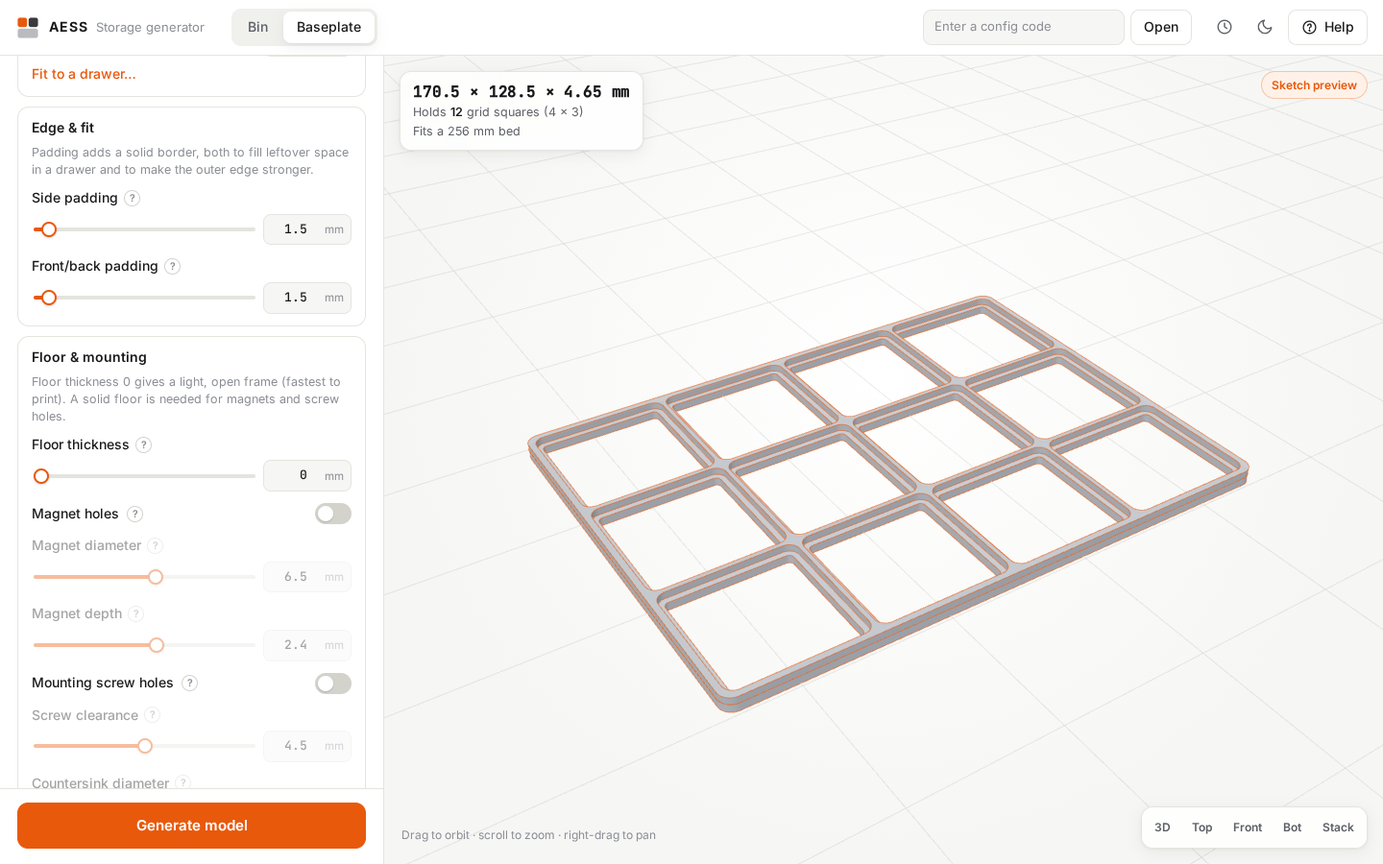
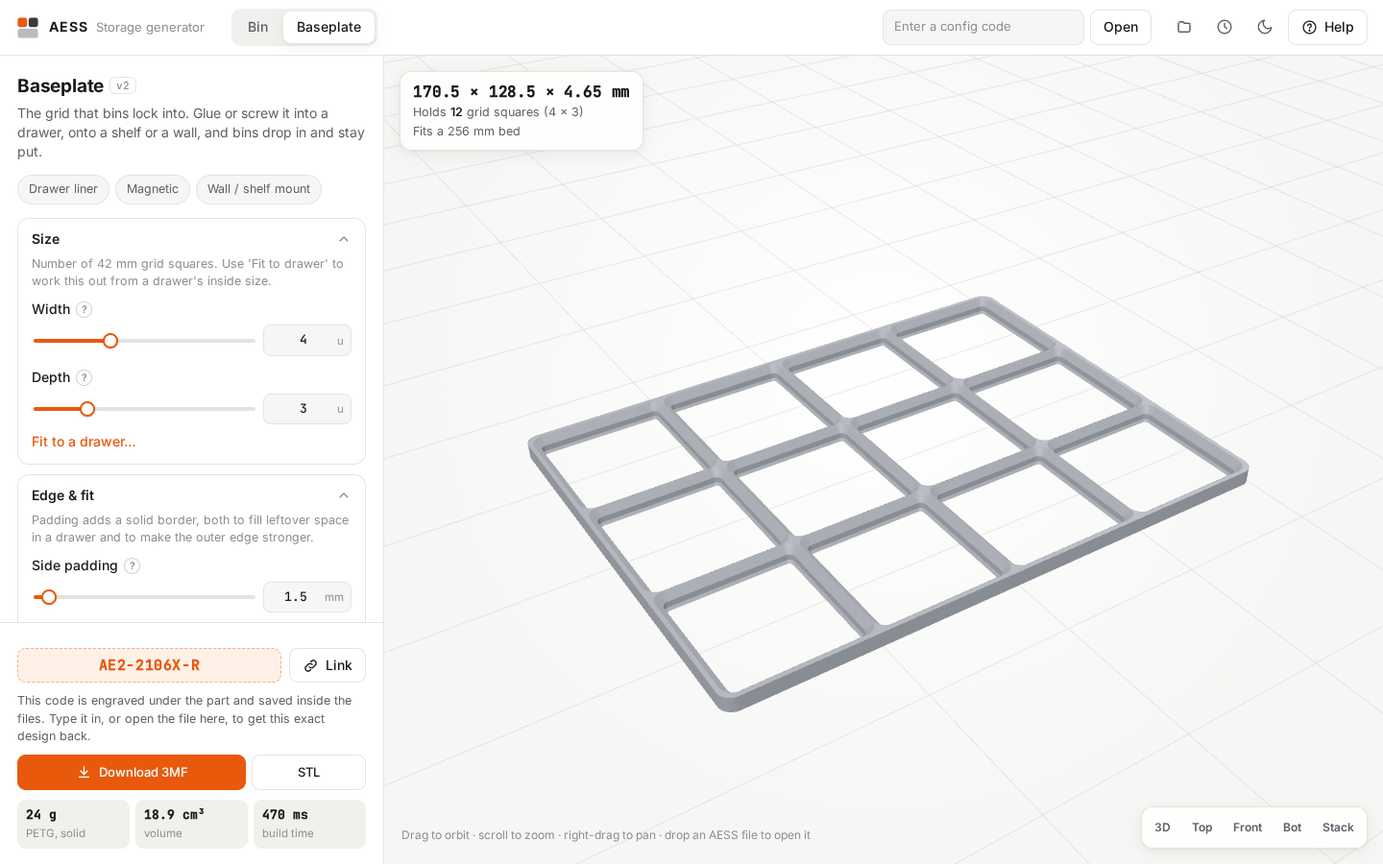
ci: deploy the site to GitHub Pages after tests pass
Run the lock tests and the Node model/code/file tests, build _site and
publish it with actions/deploy-pages on every push to main. Update the
README, CONTRIBUTING and CLAUDE.md for the static architecture.

diff --git a/README.md b/README.md
@@ -9,7 +9,7 @@ Gridfinity-compatible bins and baseplates, plus a web generator that turns your 
 
 [![CI](https://github.com/urnavrt-bit/aess/actions/workflows/ci.yml/badge.svg)](https://github.com/urnavrt-bit/aess/actions/workflows/ci.yml) [![License: MIT](https://img.shields.io/badge/license-MIT-blue.svg)](LICENSE)
 
-<img src="docs/images/generator-bin.png" alt="The AESS generator showing a 2×1 bin with three compartments" width="900">
+<img src="docs/images/generator-bin.png" alt="The AESS generator showing a 3×2 bin built live in the browser" width="900">
 
 </div>
 
@@ -17,11 +17,12 @@ Gridfinity-compatible bins and baseplates, plus a web generator that turns your 
 
 ## Why AESS
 
-[Gridfinity](https://www.youtube.com/watch?v=ra_9zU-mnl8) made modular storage easy. AESS keeps the same interface, so everything interoperates, and focuses on three things:
+[Gridfinity](https://www.youtube.com/watch?v=ra_9zU-mnl8) made modular storage easy. AESS keeps the same interface, so everything interoperates, and focuses on four things:
 
 - **Toughness by default.** 1.6 mm walls (up to 2.5 mm), a 2.25 mm floor, a rounded inside corner where walls meet the floor, and a stacking lip with a flat top instead of a knife edge that chips. Every overhang is 45° or less, so nothing needs supports.
-- **Fully parametric.** Size, walls, floor, lip, dividers, label shelf, scoop, magnets and screws are all settings, checked against each other so you can't generate something that won't print or fit.
-- **Designs you can get back.** Every generated part gets a config code such as `AE-WCFJS-5ZCVN`, **engraved on its underside**. Type the code into the generator, even years and many releases later, and you get exactly the same part.
+- **Fully parametric, instantly.** Size, walls, floor, lip, dividers, label shelf, scoop, magnets and screws are all settings, checked against each other. The exact model is built **in your browser** as you drag a slider (usually in under half a second), with no account and no server.
+- **Designs you can get back.** Every design has a config code such as `AE2-11073-8`. The code itself holds the model, its version and your settings, it is **engraved on the part's underside**, and typing it in, even years and many releases later, gives you exactly the same part.
+- **Files that remember.** Every 3MF carries its full configuration (and a thumbnail for your slicer); every STL carries the code. Drop a file back onto the generator to edit the design.
 
 ## What's in the system
 
@@ -36,9 +37,9 @@ Bins stack on each other the same way they sit in a baseplate, and work with any
 ## Using the generator
 
 1. Pick **Bin** or **Baseplate**, or start from a preset (*Small parts*, *Heavy tools*, *Kitchen drawer*, *Desk tray*, *Bathroom*…).
-2. Adjust settings; the 3D view shows a live sketch with the outside size, inside size and compartment size.
-3. **Generate**: the exact model is built on the server (about 5–40 s) and replaces the sketch.
-4. Download **3MF** (slicers), **STL**, or **STEP** (CAD). Keep the code, or copy the share link (`/c/<code>`).
+2. Adjust settings. The 3D view is the exact model, rebuilt as you go, with the outside, inside and compartment sizes. Every changed setting can be reset on its own.
+3. Download **3MF** (slicers; includes the design data and a thumbnail) or **STL**.
+4. Keep the code or the file, or copy the share link (`aess.billowapp.dev/?c=<code>`). Open a code with the box at the top, or drop a file anywhere on the page.
 
 <details>
 <summary>Phone layout</summary>
@@ -52,70 +53,48 @@ PETG or ASA for toughness (PLA is fine indoors) · 0.2 mm layers · 3–4 perime
 ## How it works
 
 ```
-browser ──► server/app.py ──► solidcraft-cli run <script> --in models/<model>/v<N>/model.sc
-  UI + API     (stdlib Python)      parametric B-rep model ──► STL · 3MF · STEP
-                │
-                └── data/codes.sqlite   code → model, version, every parameter value
+ design & verify                         publish                           use (all in the browser)
+ SolidCraft reference model ──┐   models/<model>/v<N>/model.js ──► Manifold (WebAssembly) ──► 3MF · STL
+   (exact B-rep, by hand)     └──► tests compare volume & size       + frozen kit, font, code format
 ```
 
-- **Models** are parametric [SolidCraft](https://solidcraft.io) designs in `models/<model>/v<N>/`. Each version has a `manifest.json` describing every parameter (range, step, default, help text), how it maps to the model (parameter changes, feature suppression), cross-checks between parameters, presets, and which text parameters receive the engraved code.
-- **The server** (`server/app.py`, Python standard library only) serves the single-page UI and a small JSON API, validates every value against the manifest, stores configs under their code, and builds them with `solidcraft-cli` in a bounded worker queue. Builds are cached by code.
-- **Config codes** are a hash of the canonical config (model + version + every parameter). The same design always gets the same code. A code is pinned to its model version, so later versions never change it; the UI offers to *open it in the latest version* as an explicit choice.
-- **Published model versions are immutable.** `models/LOCK.json` records their checksums and the test suite fails if one changes. A change of any size goes into a new version.
-
-### API
-
-| Method & path | |
-|---|---|
-| `GET /api/models` | Every model version's manifest |
-| `POST /api/configs` `{model, version?, params}` | Validate and store a config; returns its code |
-| `GET /api/configs/<code>` | The stored config and its build status |
-| `GET /api/configs/<code>/upgrade` | The config's values carried over to the latest model version |
-| `POST /api/build/<code>` · `GET /api/build/<code>` | Queue a build / poll it |
-| `GET /files/<code>/model.{stl,3mf,step}` | Built files (`?download` for a named attachment) |
+- **Models** are small JavaScript programs (`models/<model>/v<N>/model.js`) built on a shared geometry kit. Gridfinity's profiles are rounded rectangles that grow or shrink with height, so the kit's core is a rounded-rectangle loft, faceted to within **0.005 mm** of the true curve. [Manifold](https://github.com/elalish/manifold) does the solid booleans in WebAssembly, in a Web Worker.
+- **[SolidCraft](https://solidcraft.io) is the design and reference tool.** Each browser model names a SolidCraft reference model; `scripts/make_reference.py` builds a spread of designs with it, and CI checks the browser model against them. They agree to within 0.01% in volume and exactly in size.
+- **Config codes** pack the model id, version and every changed value (plus a checksum against typos) into a short base32 string. No database: the code is the design.
+- **Nothing published ever changes.** Each model version pins the exact engine, font, geometry kit and code format it was built with, and `models/LOCK.json` locks all of them; CI fails if a locked file changes. Improvements go into new versions, and old codes keep building their original part. The site may offer to open a design in a newer version, but only when you choose to.
+- **Version 1 designs** were made with the earlier SolidCraft server. Their codes (`AE-XXXXX-XXXXX`) still open, with their original STL, 3MF and STEP files kept in `legacy/`.
 
 ## Running it yourself
 
-Requirements: Linux or macOS, Python 3.10+, and the [SolidCraft](https://solidcraft.io/download/) CLI (`solidcraft-cli`) on `PATH` or in `AESS_SOLIDCRAFT_CLI`.
+It's a static site; any web server works.
 
 ```bash
 git clone https://github.com/urnavrt-bit/aess.git && cd aess
-python3 server/app.py --port 8000        # http://localhost:8000
-python3 -m unittest discover -s tests    # tests (SolidCraft not needed)
+python3 scripts/build_site.py                 # assembles _site/
+python3 scripts/serve.py                      # http://localhost:8000
+python3 -m unittest discover -s tests         # published files are unchanged
+node --test tests/js/*.test.mjs               # models, references, codes, files (Node 20+)
 ```
 
-To run it as a service, see [`deploy/aess.service`](deploy/aess.service). In production the service runs from its own checkout (`~/aess`, data in `~/aess-data`); `scripts/deploy.sh` checks the model lock, runs the tests, updates that checkout to the committed `main`, restarts the service and pre-builds every preset. Configuration is done with environment variables:
-
-| Variable | Default | |
-|---|---|---|
-| `AESS_SOLIDCRAFT_CLI` | `solidcraft-cli` on PATH | CLI used for builds |
-| `AESS_DATA` | `./data` | Code database and build cache. **Back up `codes.sqlite`.** |
-| `AESS_WORKERS` | `2` | Parallel builds |
-| `AESS_MAX_QUEUE` | `40` | Queue length before new builds are refused |
-| `AESS_BUILDS_PER_HOUR` | `60` | Uncached builds per client IP per hour |
-| `AESS_BUILD_TIMEOUT` | `600` | Seconds before a build is abandoned |
-
-Without the website you can make quick size variants from the command line. Toggles keep the state the model file was saved in, and the engraved code is a placeholder:
-
-```bash
-solidcraft-cli run --in models/bin/v1/model.sc --param gx=3 --param gy=2 --param gz=6 --out bin.3mf
-```
+Pushing to `main` runs the tests and deploys to GitHub Pages (`.github/workflows/ci.yml`). To serve on a custom domain, set the repository variable `PAGES_CNAME`.
 
 ## Repository layout
 
 ```
-models/<model>/v<N>/   model.sc + manifest.json (immutable once published), LOCK.json checksums
-server/                app.py (backend) and static/ (frontend, three.js vendored)
-scripts/               lock_models.py: lock / verify published model versions
-tests/                 backend unit tests
-deploy/                systemd unit
-docs/images/           screenshots
+web/                    the generator (app, build worker, file reader/writer, three.js)
+models/<model>/v<N>/    manifest.json + model.js (browser) or model.sc (SolidCraft reference / v1)
+models/_engine|_lib|_fonts|_kit|_codec/   frozen dependencies, one folder per version
+models/registry.json    model ids used in codes (append-only) · models/LOCK.json checksums
+legacy/<code>/          version 1 designs: config + original files
+scripts/                build_site, lock_models, make_reference, export_legacy
+tests/                  lock tests · tests/js model, code and file tests · tests/reference SolidCraft numbers
+docs/images/            screenshots
 ```
 
 ## Contributing
 
-Ideas, bug reports and new models are welcome. Read [CONTRIBUTING.md](CONTRIBUTING.md) first; in short: never edit a published model version, and every model must engrave its config code.
+Ideas, bug reports and new models are welcome. Read [CONTRIBUTING.md](CONTRIBUTING.md) first; in short: never edit anything published, and every model must engrave its code and carry its design in its files.
 
 ## License
 
-[MIT](LICENSE). Gridfinity is an open design by Zack Freedman; AESS is an independent, compatible project. three.js is MIT-licensed (`server/static/vendor/three/LICENSE`).
+[MIT](LICENSE). Gridfinity is an open design by Zack Freedman; AESS is an independent, compatible project. Bundled: three.js (MIT), Manifold (Apache-2.0), opentype.js (MIT), Atkinson Hyperlegible (SIL OFL 1.1); licences are next to each in `web/vendor/` and `models/_*/`.

diff --git a/CLAUDE.md b/CLAUDE.md
@@ -1,39 +1,48 @@
 # AESS — parametric Gridfinity-compatible storage ecosystem
 
 Tough, modular, fully parametric storage for home and shop. Not shop-only: every part must make sense in a kitchen drawer as much as on a workbench.
-Public generator website: https://aess.billowapp.dev (served by this repo on port 8000).
+Public generator: https://aess.billowapp.dev, a fully static site on GitHub Pages (repo `urnavrt-bit/aess`), deployed by `.github/workflows/ci.yml` on every push to `main`.
+
+## Architecture
+- **Models are built in the visitor's browser** with Manifold (WebAssembly) from versioned JavaScript models (`models/<model>/v<N>/model.js`). No backend.
+- **SolidCraft is the design and reference tool**, not part of the site. The SolidCraft reference model for a browser version is named in its manifest (`reference.solidcraft`). `scripts/make_reference.py` builds a spread of designs with SolidCraft into `tests/reference/`, and `tests/js/models.test.mjs` checks the browser model against them (volume within 0.05%, bounding box within 0.02 mm). Today they agree to 0.01%.
+- v1 models (`models/*/v1/model.sc`) were built on the old SolidCraft server. Their designs live on as static files in `legacy/<code>/` (made by `scripts/export_legacy.py`), and their codes still open.
 
 ## Hard rules (apply to everything from here on)
 
 ### 1. Config codes must reproduce the exact design, forever
-- Every design generated on the website gets a **config code** (short, human-typeable, e.g. `AE-7K3P-Q9XD`).
-- Entering a code on the website must return the **exact same configuration and geometry** it was made with. This must hold after any number of later releases.
-- A code stores: model id, **model version**, the full parameter set (all values, defaults included, never just the ones the user changed), generator version and creation time. Codes are never deleted or rewritten.
-- The same model + version + parameters must always give the same code (it is derived from a canonical hash).
-- **The code is engraved into every generated part** on a face that prints cleanly, on the underside so it reads correctly when the part is flipped toward you (bin: under the first foot, between the magnet holes; baseplate: the underside of the front rim). Models take it through text parameters listed under `engrave_code` in the manifest (`full`, `head` = `AE-XXXXX`, `tail` = the rest). Every new model must do the same.
-- When a newer model version exists, the site may *offer* to open a code in the latest version. That is an explicit user choice, and the original version is always kept.
+- Every design has a **config code**. It is **self-contained**: scheme c1 (`models/_codec/c1/codec.js`, prefix `AE2-`) packs the model id, the **model version** and every value that differs from that version's defaults, plus a checksum. No database.
+- The same model + version + values always give the same code. A code always decodes with *its* version's manifest and builds with *its* version's model, so it reproduces the same part after any number of releases.
+- When a newer version exists, the site may *offer* to open a design in it. That is an explicit user choice, and the original version always stays available.
+- **The code is engraved into every part** on a face that prints cleanly, on the underside so it reads correctly when the part is tipped toward you (bin: under the first foot, between the magnet holes; baseplate: underside of the front rim). Every new model must do this.
+- **Every downloaded file carries its design.** 3MF: `Metadata/aess.json` (code, model, version, every parameter, generator link) plus readable metadata and a thumbnail. STL: the code in the 80-byte header. The site opens either file back into the editor (`web/files.js`). Keep this for every model and format.
+- Old v1 codes (`AE-XXXXX-XXXXX`) keep opening, with their original files from `legacy/`.
 
-### 2. Published model versions are immutable
-- Models live in `models/<model>/v<N>/` (design file `model.sc` + `manifest.json`: parameters, ranges, defaults, toggles, help text).
-- `models/LOCK.json` holds the checksums of published versions (`scripts/lock_models.py --add` locks new ones; the test suite fails if a locked file changes). bin/v1 and baseplate/v1 are published and locked.
-- Once a version is published (any code points at it), **never edit its files**. A change of any size goes in a new `v<N+1>` folder; the old one stays and still builds.
-- Do not rename, remove or reinterpret parameters in a published manifest. A new version may change them; the old manifest keeps its meaning.
-- Keep the SolidCraft build that published a version recorded in its manifest (`solidcraft_version`). If a SolidCraft upgrade changes the output of an old version, keep the old CLI available to build it.
+### 2. Published files are immutable
+- `models/LOCK.json` locks checksums of every published model version **and everything it depends on**: `models/_engine/*` (Manifold build), `_lib/*`, `_fonts/*`, `_kit/*` (shared geometry), `_codec/*` (code formats), plus the append-only `models/registry.json` (model ids used inside codes). `scripts/lock_models.py --add` locks new folders when publishing; the tests fail if a locked file changes or a published version isn't locked.
+- Never edit a locked folder. Any change, however small, goes into a new folder (`bin/v3`, `_kit/k2`, `_engine/manifold-<new>`, `_codec/c2`) that new model versions point at. Old versions keep pointing at the old folders.
+- Do not rename, remove or reinterpret parameters within a published manifest.
+- New model ids are only ever appended to `models/registry.json`.
 
-### 3. One server, backend + frontend
-- `server/` serves the UI (`server/static/`) and the API on the same port (8000). No separate frontend host.
-- The backend runs `solidcraft-cli` to build files. It validates every parameter against the manifest (type, range, step); nothing from the client reaches the CLI unchecked. The CLI is called with an argument list, never through a shell.
-- Generated files are cached by config code.
-
-### 4. Gridfinity compatibility
+### 3. Gridfinity compatibility
 - 42 mm pitch, 7 mm height unit, standard base and stacking-lip profile. Toughness comes from parameters (walls, floor, fillets, flat lip top), never from changing the interface geometry.
 
+### 4. Print quality
+- Curves are faceted to within 0.005 mm of the true shape (`_kit/k1` `TOL`), well below what a printer shows. Never ship coarser geometry.
+
+## Working on it
+- Site source is `web/`; `scripts/build_site.py` assembles `_site/` (web + models + legacy + 404 redirect for old `/c/<code>` links). Preview locally: `python3 scripts/build_site.py && python3 scripts/serve.py`.
+- Tests: `python3 -m unittest discover -s tests` (locks) and `node --test tests/js/*.test.mjs` (models, codes, files).
+- New model version: copy the latest `models/<model>/v<N>` to `v<N+1>`, change it, add `reference.solidcraft` if a SolidCraft reference exists (`scripts/make_reference.py`), run the tests, then `scripts/lock_models.py --add` in the commit that publishes it.
+
 ## Environment
-- Headless Ubuntu server, no GUI, no sudo. SolidCraft 0.50.0 lives in `~/.local/opt/solidcraft-0.50.0/`, with `solidcraft-cli` on PATH. The `solidcraft` MCP server runs headless.
-- Python 3.14 standard library only for the server (no pip available).
+- Headless Ubuntu server, no GUI, no sudo. SolidCraft 0.50.0 is in `~/.local/opt/solidcraft-0.50.0/` with `solidcraft-cli` on PATH; the `solidcraft` MCP server runs headless. Node 22 is in `~/.local/opt/node-*` (`node`, `npm` on PATH). `gh` is logged in as `urnavrt-bit`.
+- Browser testing: Playwright with headless Chromium in the session scratchpad (system libraries unpacked locally, `LD_LIBRARY_PATH` + `FONTCONFIG_FILE` needed).
+- The old Python server still runs from `~/aess` (systemd user unit `aess`, data `~/aess-data`) and serves aess.billowapp.dev until DNS points at GitHub Pages; after that, stop and disable it.
 
 ## Layout
-- `models/<model>/v<N>/` — versioned, immutable model versions
-- `server/` — generator website (backend + frontend)
-- `data/` — config code database (SQLite) and the build cache. Back up `data/codes.sqlite`: losing it breaks codes.
-- `exports/`, `renders/` — ad-hoc outputs
+- `web/` site source (app, worker, runtime, file reader/writer, vendored three.js)
+- `models/<model>/v<N>/` model versions; `models/_*/` frozen shared dependencies; `models/registry.json`; `models/LOCK.json`
+- `legacy/<code>/` v1 designs (config + original STL/3MF/STEP)
+- `scripts/` build_site, lock_models, make_reference, export_legacy
+- `tests/` Python lock tests, `tests/js/` Node tests, `tests/reference/` SolidCraft reference numbers

diff --git a/CONTRIBUTING.md b/CONTRIBUTING.md
@@ -1,50 +1,53 @@
 # Contributing to AESS
 
-Thanks for helping! A few rules keep every config code working forever.
+Thanks for helping! A few rules keep every config code and every file working forever.
 
 ## The golden rules
 
-1. **Never edit a published model version.** Anything under `models/<model>/v<N>/` that is listed in `models/LOCK.json` is frozen, because config codes point at it. `python3 -m unittest discover -s tests` fails if a locked file changes.
-2. **Changes go in a new version.** Copy `v<N>` to `v<N+1>`, make the change, bump `version` in the manifest, then run `python3 scripts/lock_models.py --add` once the version is released.
-3. **Never reinterpret a parameter** inside a version. A new version may rename or drop parameters; the server carries matching ones over when someone opens an old code in the new version.
-4. **Every model engraves its config code** on a face that prints cleanly (usually the underside), through text parameters listed in the manifest's `engrave_code`.
+1. **Never edit anything published.** Model versions (`models/<model>/v<N>/`) and their frozen dependencies (`models/_engine`, `_lib`, `_fonts`, `_kit`, `_codec`) are locked in `models/LOCK.json`, because codes and files in the wild point at them. The tests fail if a locked file changes.
+2. **Changes go in new folders.** A model change means `v<N+1>`. A kit, font, engine or code-format change means a new folder (`_kit/k2`, …) that only new model versions use.
+3. **Never reinterpret a parameter** inside a version. A new version may rename or drop parameters; when someone opens an old design in the new version, matching parameters are carried over.
+4. **Every model engraves its config code** on a face that prints cleanly (usually the underside), and its files carry the design (the 3MF config, the STL header code).
 5. **Stay Gridfinity-compatible**: 42 mm pitch, 7 mm height units, standard base and lip profile. Toughness comes from parameters, not from changing the interface.
+6. **Print quality:** curves within 0.005 mm of the true shape (the kit does this for you).
 
 ## Adding or changing a model
 
-Models are built in [SolidCraft](https://solidcraft.io) (desktop app, CLI, or its MCP server for AI agents).
-
-- Drive every size from named parameters (expressions such as `pitch*gx - gap`), never fixed numbers.
-- Name every feature. Toggles work by suppressing features, so each optional feature (and its patterns) needs a stable name.
-- Pattern counts must be ≥ 1. A count that can be 0 uses `zero_suppress` in the manifest (the server sets the count to 1 and suppresses the features).
-- Verify each stage: compare measured volume and bounding box with numbers you worked out, then check several extreme parameter combinations (`solidcraft-cli eval` or the MCP `check_parameters`).
+1. Design or update the shape in [SolidCraft](https://solidcraft.io) (desktop app, CLI or its MCP server for AI agents): drive every size from named parameters and name every feature. This is the reference.
+2. Copy the latest `models/<model>/v<N>` to `v<N+1>` and update `model.js` (and `manifest.json`). `build(M, ctx, values, code)` returns a Manifold solid; use the kit (`rrLoft`, `rrPrism`, `textBlock`, `undersideText`…).
+3. Point `reference.solidcraft` at the SolidCraft model and run `scripts/make_reference.py` (needs `solidcraft-cli`) to record reference numbers.
+4. `node --test tests/js/*.test.mjs`: the model must match its reference, every preset and a few dozen random valid designs must build as solids, and codes must round-trip.
+5. Preview with `python3 scripts/build_site.py && python3 scripts/serve.py`.
+6. In the commit that publishes it, run `python3 scripts/lock_models.py --add`. New models also get the next id appended to `models/registry.json`.
 
 ### Manifest reference
 
 ```jsonc
 {
-  "model": "bin", "version": 2, "title": "...", "summary": "...",
-  "solidcraft_version": "0.50.0",          // build used to publish this version
-  "body": "Bin",
-  "engrave_code": {"code1": "head", "code2": "tail"},   // text params ← full | head | tail
+  "model": "bin", "version": 3, "title": "...", "summary": "...",
+  "engine": "browser",
+  "runtime": {                                   // frozen folders this version builds with
+    "manifold": "_engine/manifold-3.5.5/manifold.js", "opentype": "_lib/opentype-1.3.4/opentype.module.js",
+    "font": "_fonts/atkinson-hyperlegible-bold/font.ttf", "kit": "_kit/k1/kit.js",
+    "codec": "_codec/c1/codec.js", "entry": "model.js"
+  },
+  "reference": {"solidcraft": "bin/v1"},         // SolidCraft model it is checked against
+  "formats": ["3mf", "stl"],
   "groups": [{"id": "size", "title": "Size", "help": "..."}],
   "params": [
     {"id": "gx", "group": "size", "label": "Width", "type": "int", "unit": "units",
-     "min": 1, "max": 8, "step": 1, "default": 2, "set": "gx", "help": "..."},
-    {"id": "magnets", "type": "bool", "default": false,
-     "on": {"set": {...}, "suppress": [...]}, "off": {"suppress": ["MagnetHoles"]}},
-    {"id": "ndx", "type": "int", "set": "ndx", "zero_suppress": ["DividerX", "DividersX"]},
-    {"id": "label_w", "requires": "label", ...}             // greyed out unless label is on
+     "min": 1, "max": 8, "step": 1, "default": 2, "help": "..."},
+    {"id": "magnets", "group": "base", "label": "Magnet holes", "type": "bool", "default": false, "help": "..."},
+    {"id": "mag_d", "requires": "magnets", ...}            // greyed out unless magnets is on
   ],
   "checks": [{"expr": "not screws or screw_h <= floor_z - 1", "message": "..."}],
   "presets": [{"name": "Small parts", "help": "...", "values": {...}}]
 }
 ```
 
-`checks` use a tiny, sandboxed expression language (numbers, parameter names, `+ - * /`, comparisons, `and`/`or`/`not`). They run both in the browser and on the server.
+A version's `params` order is part of its codes; that's one more reason published manifests never change. A new version may order its parameters freely. `checks` use a tiny expression language (numbers, parameter names, `+ - * /`, comparisons, `and`/`or`/`not`).
 
 ## Code style & tests
 
-- Server: Python standard library only, no external dependencies.
-- Frontend: plain ES modules, no build step; three.js is vendored under `server/static/vendor/three/`.
-- Run `python3 -m unittest discover -s tests` before opening a pull request.
+- No build step: plain ES modules; dependencies are vendored.
+- `python3 -m unittest discover -s tests` and `node --test tests/js/*.test.mjs` must pass before a pull request.

diff --git a/.github/pull_request_template.md b/.github/pull_request_template.md
@@ -1,6 +1,6 @@
 ## What & why
 
 ## Checklist
-- [ ] No published model version (listed in `models/LOCK.json`) was edited; changes go in a new `v<N+1>`
-- [ ] New models engrave their config code (`engrave_code` in the manifest)
-- [ ] `python3 -m unittest discover -s tests` passes
+- [ ] Nothing locked in `models/LOCK.json` was edited; changes go in new version folders
+- [ ] Models engrave their config code and their files carry the design (3MF config, STL header code)
+- [ ] `python3 -m unittest discover -s tests` and `node --test tests/js/*.test.mjs` pass
